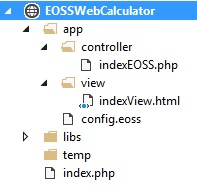
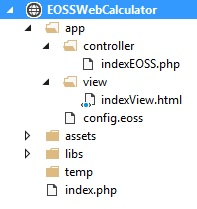
readme

diff --git a/assets/css/style.css b/assets/css/style.css
@@ -1,0 +1,43 @@
+.navbar-brand {
+    font-size: 20px;
+    font-weight: bold;
+}
+
+.scrolling-text {
+    float: right;
+    padding-top: 15px;
+    width: 91%;
+}
+
+.main-panel {
+    width: 50%;
+    margin: auto auto;
+    padding: 20px;
+}
+
+.example {
+    padding: 20px;
+    text-align: center;
+}
+
+#lblCopy {
+    margin-top: 10px;
+}
+
+#txtTodo {
+    width: 100%;
+}
+
+.panel-footer {
+    font-size: 10px;
+    float: right;
+    margin-top: 30px;
+}
+
+#flashes {
+    position: fixed;
+    top: 10px;
+    width: 800px;
+    left: 50%;
+    margin-left: -400px;
+}

diff --git a/assets/js/flashes.js b/assets/js/flashes.js
@@ -1,0 +1,14 @@
+
+function showFlash(message, cls) {
+    var $flashes = $("#flashes");
+    if($flashes.length > 0) {
+        var $flash = $("<div style='display:none' class='alert alert-" + cls + "'>" + message + "</div>");
+        $flashes.append($flash);
+        $flash.fadeIn(200);
+        setTimeout(function() {
+            $flash.fadeOut(2000, function() {
+               $(this).remove();
+            });
+        }, 15000);
+    }
+}

diff --git a/README.md b/README.md
@@ -7,7 +7,7 @@ But with `EOSS` everything works like a charm. It's lightweight and simple, all 
 - copy `libs` and `assets` folders from [EOSS github repositary](https://github.com/Durisvk/EOSS2) to you root web folder
 - copy `index.php` from the same repository to root
 - create `temp` and `app` folder there
-- copy `cofig.eoss` from reository to `app` folder
+- copy `cofig.eoss` from repository to `app` folder
 - add at least two folders to `app` folder (default is `controller` and `view`, but you can override this in `config.eoss`)
 - add your own php controllers and html/php views to last two mentioned above (optionally you can create and fill-in `model` folder for a greater app)
 
